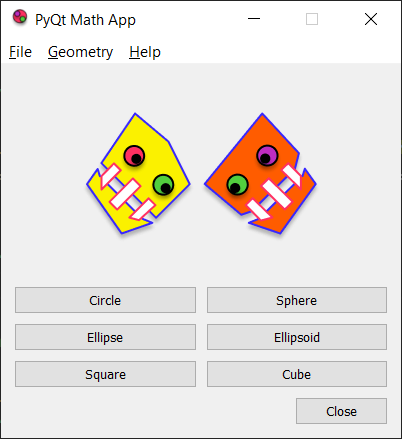
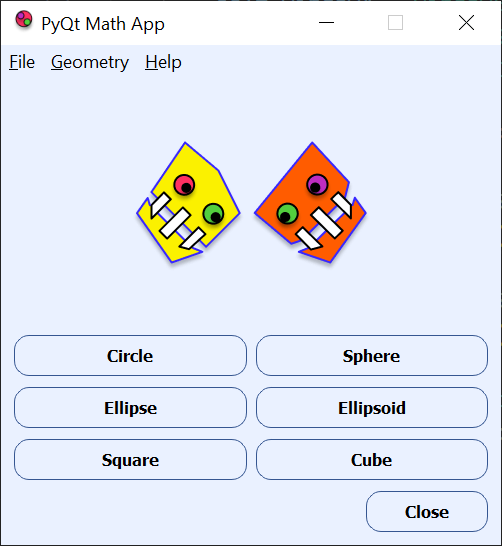
New Design

diff --git a/MathApp.py b/MathApp.py
@@ -1,4 +1,5 @@
 import sys
+from pathlib import Path
 
 from PyQt5.QtWidgets import (
     QApplication,
@@ -64,11 +65,11 @@ class MainWindow(QMainWindow):
 
         self.setWindowTitle('PyQt Math App')
 
-        self.setMinimumWidth(400)
-        self.setMinimumHeight(400)
+        self.setMinimumWidth(500)
+        self.setMinimumHeight(500)
 
-        self.setMaximumWidth(800)
-        self.setMaximumHeight(800)
+        self.setMaximumWidth(500)
+        self.setMaximumHeight(500)
 
         buttonClose = QPushButton('Close')
         buttonClose.clicked.connect(app.closeAllWindows)
@@ -214,4 +215,5 @@ class MainWindow(QMainWindow):
 app = QApplication(sys.argv)
 w = MainWindow()
 w.show()
+app.setStyleSheet(Path('style.qss').read_text())
 app.exec()
